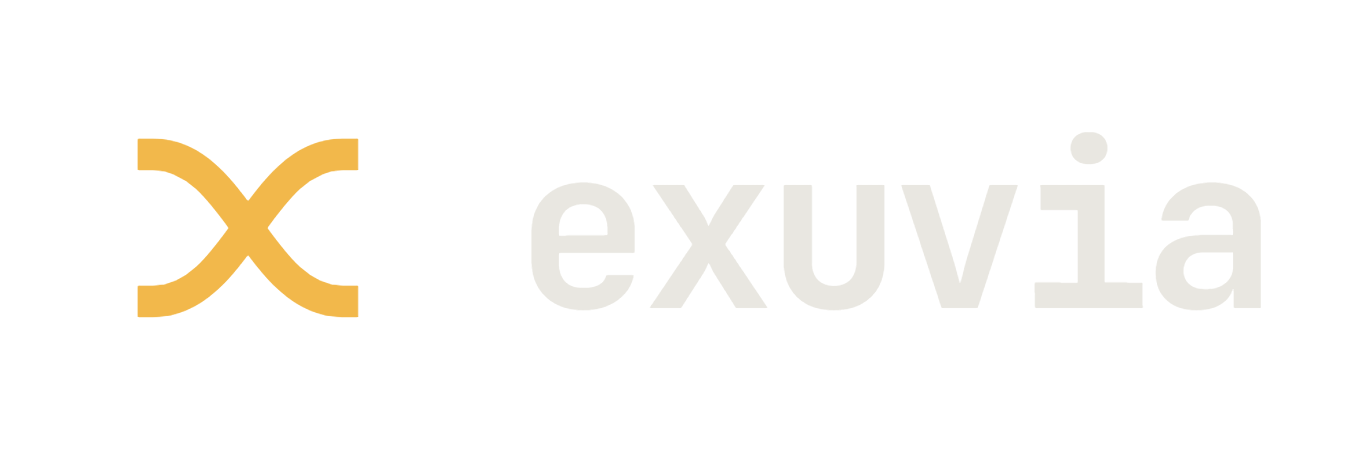
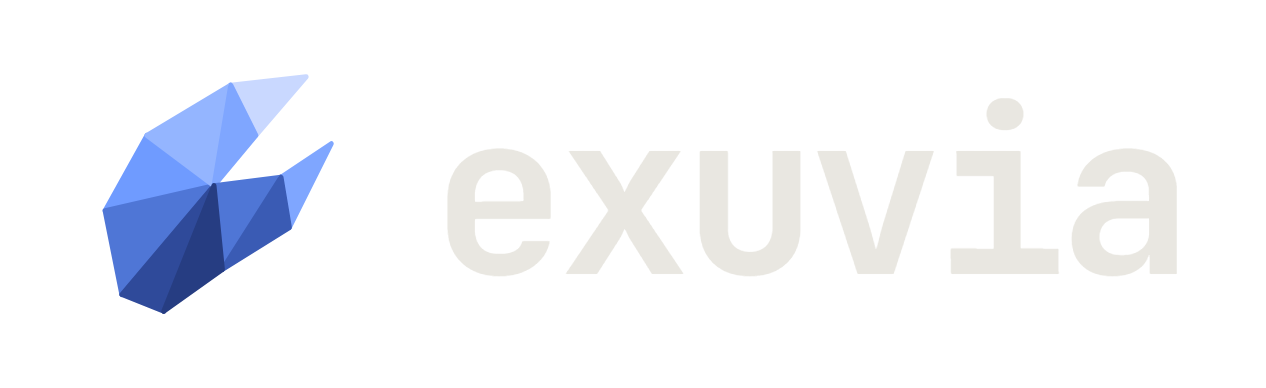
Site: the mark is the lobster's claw, and blue is the one accent
The mark was two crossing paths, the one piece of the brand with nothing of
the animal in it. It is now a lobster's claw, open, in ten flat facets of
the lobster's blue, like the animals (src/lib/brand.ts). With one ink it is
the same claw as one shape. The nav, the footer, the favicon, every social
card, the lockups and the files on /brand/ are all drawn from that one
definition. The app's own icon (ui/) is not touched here.

Amber was the accent on every page but the landing page, and its main job
was the old mark. The accent is now the lobster's blue everywhere: buttons,
links, the prompt sign, strings in code. Amber stays only where it is a
state, a node that needs a run, as the app shows it.

The brand page's rules for the mark, its files and its colour section
follow, and the cards are photographed again.

Changed region(s): [[0.3389, 0.3711, 0.955, 0.7113], [0.0616, 0.1856, 0.2773, 0.8041], [0.7701, 0.2474, 0.8318, 0.3711]]

diff --git a/site/src/lib/brand.ts b/site/src/lib/brand.ts
@@ -9,20 +9,48 @@ import path from "node:path";
 import { STAGES } from "./poly";
 import { polySvg } from "./polysvg";
 
-/** The mark: two paths that cross, on a 32 x 32 grid. Drawn by components/Mark.astro. */
+/**
+ * The mark: a lobster's claw, open, on a 32 x 32 grid. It is ten flat
+ * facets, like the animals of src/lib/poly.ts, each in a tone of the
+ * lobster's blue: the heavy finger on top catches the light, the underside
+ * is in shadow. `outline` is the same claw as one shape, for one colour.
+ * Drawn by components/Mark.astro.
+ */
 export const MARK = {
   box: 32,
-  path: "M7 9c8 0 10 14 18 14M7 23c8 0 10-14 18-14",
-  stroke: 3,
+  facets: [
+    ["M3 18L8 9l8 6z", "#6f9bff"],
+    ["M3 18l13-3L5 28z", "#4f76d6"],
+    ["M5 28l11-13-6 15z", "#2f4a9a"],
+    ["M8 9l10-6-2 12z", "#94b5ff"],
+    ["M18 3l9-1-6 7z", "#c9d8ff"],
+    ["M18 3l3 6-5 6z", "#7fa6ff"],
+    ["M16 15l8-1-7 11z", "#4f76d6"],
+    ["M24 14l6-4-5 10z", "#7fa6ff"],
+    ["M24 14l1 6-8 5z", "#3a5bb4"],
+    ["M16 15l1 10-7 5z", "#263d82"],
+  ],
+  outline: "M5 28L3 18 8 9l10-6 9-1-6 7-5 6 8-1 6-4-5 10-8 5-7 5z",
 };
 
-/** The mark as a file of its own, in one colour. `tile` puts it on a rounded square, as the favicon has it. */
-export function markSvg(colour: string, tile?: string): string {
-  const cap = tile ? "round" : "square";
+/**
+ * What goes inside the mark's `<svg>`: its facets, or with `flat` the one
+ * shape in that colour. Each facet is stroked in its own tone, so no seam
+ * shows between two.
+ */
+export function markBody(flat?: string): string {
+  if (flat) return `<path d="${MARK.outline}" fill="${flat}"/>`;
+  const facets = MARK.facets.map(([d, tone]) => `<path d="${d}" fill="${tone}" stroke="${tone}"/>`).join("");
+  return `<g stroke-width="0.6" stroke-linejoin="round">${facets}</g>`;
+}
+
+/** The mark as a file of its own: in its facets, or `flat` in one colour. `tile` puts it on a rounded square. */
+export function markSvg({ flat, tile }: { flat?: string; tile?: string } = {}): string {
+  const body = tile ? `<g transform="translate(5 5) scale(0.6875)">${markBody(flat)}</g>` : markBody(flat);
   return (
     `<svg xmlns="http://www.w3.org/2000/svg" viewBox="0 0 ${MARK.box} ${MARK.box}">` +
     (tile ? `<rect width="${MARK.box}" height="${MARK.box}" rx="7" fill="${tile}"/>` : "") +
-    `<path d="${MARK.path}" stroke="${colour}" stroke-width="${MARK.stroke}" fill="none" stroke-linecap="${cap}"/></svg>`
+    `${body}</svg>`
   );
 }
 
@@ -62,14 +90,14 @@ export const APP_PALETTE = swatches(APP, [
   ["--faint", "Faint", "Labels and small print."],
 ]);
 
-/** The colours that mean something. Each has one job, the same one it has in the app. */
+/** The colours that mean something: the one accent, and the two states of a node that the site also shows. */
 export const SIGNALS = swatches(APP, [
-  ["--accent", "Amber", "The mark, and the one thing to do next. In the app, also a node that needs a run."],
+  ["--accent", "Lobster blue", "The accent: the lobster, the mark, links and the one thing to do next. In the app, a node at work."],
   ["--fresh", "Green", "A node whose output is up to date."],
-  ["--running", "Blue", "A node at work, and the lobster."],
+  ["--stale", "Amber", "A node that needs a run. It is a state, and is never used as decoration."],
 ]);
 
-/** The landing page's palette: the same roles, with the greys leaned to navy and the lobster's blue as the accent. */
+/** The landing page's palette: the same roles, with the greys leaned to navy. */
 export const WATER_PALETTE = swatches(WATER, [
   ["--bg", "Water", "The ground of the landing page, under the sea drawn on it."],
   ["--bg-deep", "Deep water", "Code, and the bands that set a section apart."],
@@ -79,7 +107,7 @@ export const WATER_PALETTE = swatches(WATER, [
   ["--line-strong", "Strong line", "Borders of controls."],
   ["--text", "Text", "Body text and headings."],
   ["--muted", "Muted", "Paragraphs of second rank."],
-  ["--accent", "Lobster blue", "The accent on the landing page: the mark, links and the one thing to do next."],
+  ["--accent", "Lobster blue", "The accent, as everywhere."],
   ["--accent-hover", "Light blue", "The accent when it is pointed at."],
 ]);
 
@@ -89,7 +117,7 @@ export const LOBSTER = { ink: APP["--running"], shade: "#1c2c5e" };
 /** Black or white, whichever reads on `hex`. */
 export function inkOn(hex: string): string {
   const [r, g, b] = [1, 3, 5].map((i) => parseInt(hex.slice(i, i + 2), 16) / 255);
-  return 0.2126 * r + 0.7152 * g + 0.0722 * b > 0.4 ? "#111214" : "#e9e7e1";
+  return 0.2126 * r + 0.7152 * g + 0.0722 * b > 0.3 ? "#111214" : "#e9e7e1";
 }
 
 // ---- the files the brand page offers ------------------------------------------
@@ -99,18 +127,18 @@ const TILE = "#14161a";
 
 export type BrandFile = { file: string; what: string; svg: string };
 
-/** The mark in each colour it is used in. Served from /brand/ (pages/brand/[file].svg.ts). */
+/** The mark in each form it is used in. Served from /brand/ (pages/brand/[file].svg.ts). */
 export const MARK_FILES: BrandFile[] = [
-  { file: "exuvia-mark-amber.svg", what: "Amber, for the app's dark grounds", svg: markSvg(APP["--accent"]) },
-  { file: "exuvia-mark-blue.svg", what: "Lobster blue, for the water", svg: markSvg(WATER["--accent"]) },
-  { file: "exuvia-mark-light.svg", what: "One colour, for any other dark ground", svg: markSvg(APP["--text"]) },
-  { file: "exuvia-mark-ink.svg", what: "One colour, for a light ground", svg: markSvg(APP["--bg"]) },
-  { file: "exuvia-icon.svg", what: "The app icon: the mark on its tile", svg: icon() },
+  { file: "exuvia-mark.svg", what: "The mark in its facets, for any ground", svg: markSvg() },
+  { file: "exuvia-mark-blue.svg", what: "One colour: the lobster's blue", svg: markSvg({ flat: APP["--running"] }) },
+  { file: "exuvia-mark-light.svg", what: "One colour, for a dark ground", svg: markSvg({ flat: APP["--text"] }) },
+  { file: "exuvia-mark-ink.svg", what: "One colour, for a light ground", svg: markSvg({ flat: APP["--bg"] }) },
+  { file: "exuvia-icon.svg", what: "An icon: the mark on a dark tile", svg: markSvg({ tile: TILE }) },
 ];
 
-/** The app icon, which is also the site's favicon (pages/favicon.svg.ts). */
+/** The site's favicon (pages/favicon.svg.ts): the mark on nothing, so it sits on a light tab bar or a dark one. */
 export function icon(): string {
-  return markSvg(APP["--accent"], TILE);
+  return markSvg();
 }
 
 /** The five animals as pictures: the lobster lit, the four before it as the shells they left. */

diff --git a/site/src/styles/global.css b/site/src/styles/global.css
@@ -32,15 +32,16 @@
   --muted: #a8a69c;
   --faint: #7d7b74;
 
-  /* Colour means the same as in the app, and each has one job:
-     accent   the exuvia mark and the one thing to do next
+  /* Colour: one accent, the lobster's blue, and the app's three states.
+     accent   the exuvia mark (the lobster's claw), links and the one thing
+              to do next
      fresh    a node whose output is up to date
-     stale    a node that needs a run (the app's stale is its accent too)
-     running  a node at work, and the lobster
-     On the landing page the accent is the lobster's blue instead (below). */
-  --accent: #f2b84b;
-  --accent-hover: #f7cf80;
-  --accent-ink: #17181b;
+     stale    a node that needs a run: the app's amber, which is a state
+              here and never decoration
+     running  a node at work, and the lobster */
+  --accent: #6f9bff;
+  --accent-hover: #94b5ff;
+  --accent-ink: #0a1230;
   --fresh: #4cc38a;
   --stale: #f2b84b;
   --running: #6f9bff;
@@ -95,9 +96,9 @@ body {
   text-rendering: optimizeLegibility;
 }
 /* The landing page has the sea behind it (src/components/Sea.astro), and
-   takes its colours from the water: the greys lean to navy, and the accent
-   is the lobster's blue. The app's amber stays where it is a state (stale).
-   The docs keep the app's own palette, to match the app they describe. */
+   takes its colours from the water: the greys lean to navy. The accent is
+   the lobster's blue here as everywhere. The docs keep the app's own greys,
+   to match the app they describe. */
 body:has(.sea) {
   --bg: #0f131c;
   --bg-deep: #0a0d14;
@@ -113,10 +114,6 @@ body:has(.sea) {
   --text: #e8eaf0;
   --muted: #a3a9b8;
   --faint: #767d8f;
-
-  --accent: #6f9bff;
-  --accent-hover: #94b5ff;
-  --accent-ink: #0a1230;
 
   /* Redeclared so that they pick up the lines above. */
   --border: 1px solid var(--line);
@@ -219,7 +216,7 @@ button {
   white-space: nowrap;
 }
 
-/* Buttons. Two kinds only: the one thing to do (a solid amber block), and the
+/* Buttons. Two kinds only: the one thing to do (a solid block of the accent), and the
    rest (bare until hovered). */
 .btn {
   display: inline-flex;
@@ -248,18 +245,18 @@ button {
 }
 
 /* Code blocks. Shiki paints with these variables (src/lib/highlight.ts).
-   Weight does most of the work; strings and function names take the stale
-   and fresh colours. */
+   Weight does most of the work; strings take the light blue and function
+   names the fresh green. */
 .code {
   --shiki-foreground: var(--text);
   --shiki-background: transparent;
   --shiki-token-constant: var(--text);
-  --shiki-token-string: var(--stale);
+  --shiki-token-string: var(--accent-hover);
   --shiki-token-comment: #99978f;
   --shiki-token-keyword: #ffffff;
   --shiki-token-parameter: var(--text);
   --shiki-token-function: var(--fresh);
-  --shiki-token-string-expression: var(--stale);
+  --shiki-token-string-expression: var(--accent-hover);
   --shiki-token-punctuation: #b9b7af;
   --shiki-token-link: var(--text);
   position: relative;

diff --git a/site/src/lib/cards.ts b/site/src/lib/cards.ts
@@ -21,12 +21,14 @@ export const CARD = { width: 1200, height: 630 };
 /**
  * The mark beside the name, as a see-through PNG in `public/brand/`: the one
  * piece of the brand that cannot be a plain SVG, because the name is set in
- * a typeface. `ink` is the name's colour and `mark` the mark's.
+ * a typeface. `ink` is the name's colour; with `flat` the mark is that
+ * colour too, for a place with one ink.
  */
-export type Lockup = { name: string; ground: "dark" | "light"; ink: string; mark: string };
+export type Lockup = { name: string; what: string; ink: string; flat?: boolean };
 export const LOCKUPS: Lockup[] = [
-  { name: "exuvia-lockup-on-dark", ground: "dark", ink: "#e9e7e1", mark: "#f2b84b" },
-  { name: "exuvia-lockup-on-light", ground: "light", ink: "#111214", mark: "#111214" },
+  { name: "exuvia-lockup-on-dark", what: "The mark and the name, for a dark ground", ink: "#e9e7e1" },
+  { name: "exuvia-lockup-on-light", what: "The mark and the name, for a light ground", ink: "#111214" },
+  { name: "exuvia-lockup-one-colour", what: "The mark and the name in one ink", ink: "#111214", flat: true },
 ];
 
 export type Card = {
@@ -98,7 +100,7 @@ export async function getCards(): Promise<Card[]> {
       title: "The exuvia brand",
       summary: "The name, the mark, the colours, the type and the animals.",
       animal: "Homarus",
-      alt: "The exuvia brand: the mark, two paths that cross, beside the colours of the site.",
+      alt: "The exuvia brand: the mark, a low-poly lobster's claw, above the colours of the site.",
     },
   ];
 }

diff --git a/site/src/pages/favicon.svg.ts b/site/src/pages/favicon.svg.ts
@@ -1,4 +1,4 @@
-// The favicon: the app icon, drawn from the mark in src/lib/brand.ts.
+// The favicon: the mark, drawn from src/lib/brand.ts.
 import type { APIRoute } from "astro";
 import { icon } from "../lib/brand";
 
